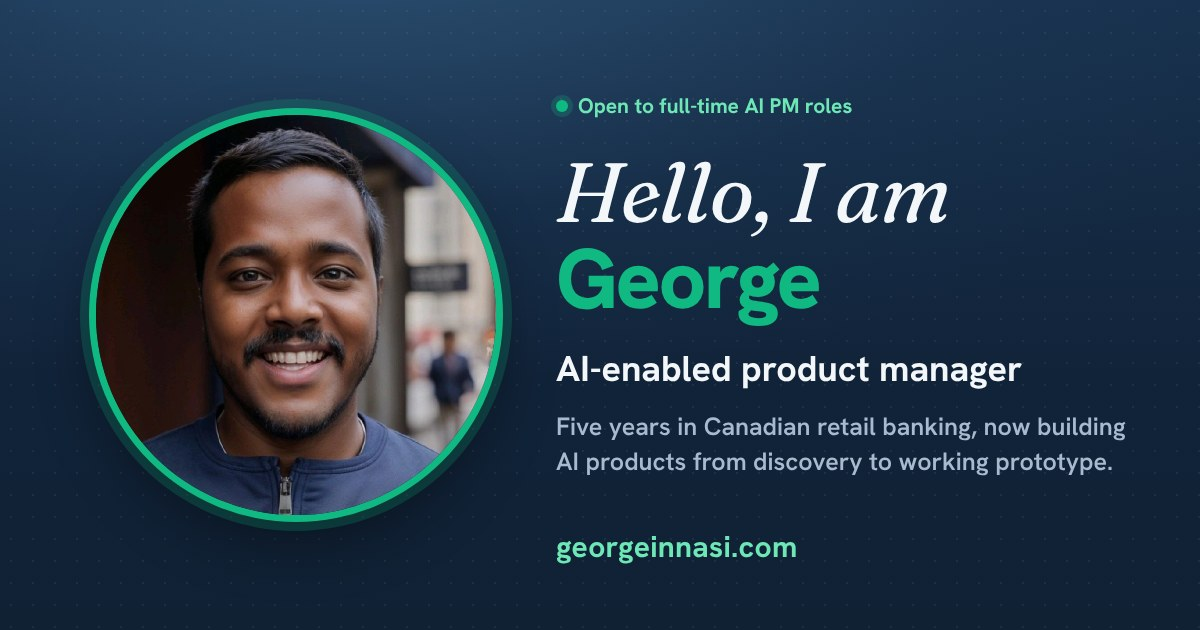
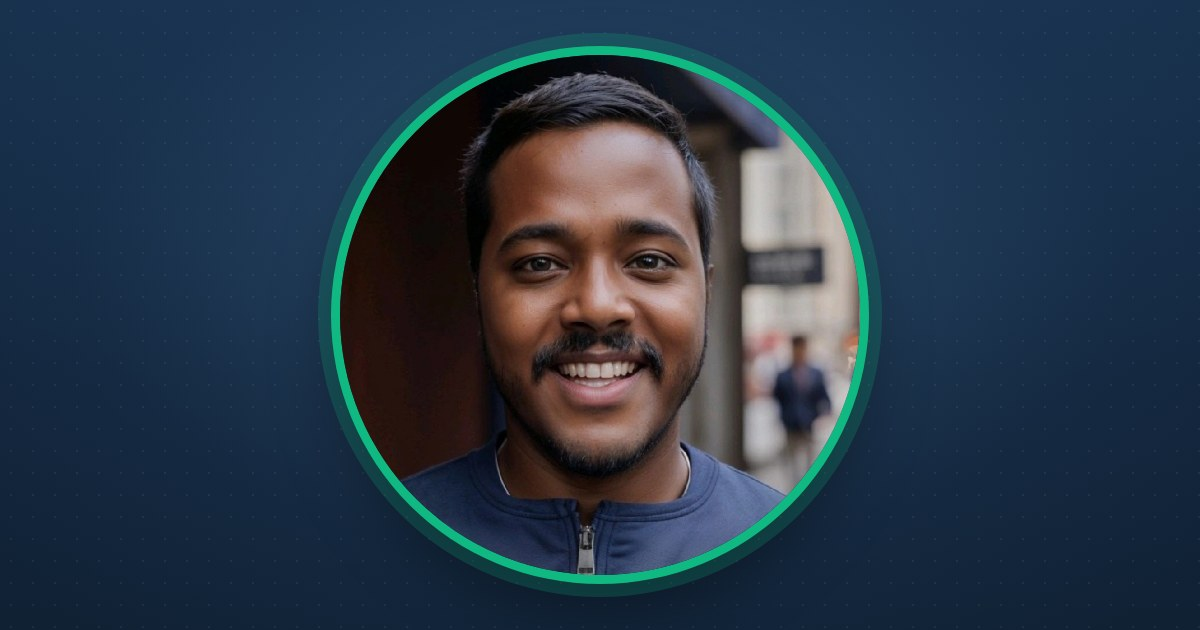
Use photo-only link preview card and shorter preview description
Claude-Session: https://claude.ai/code/session_013DHFwZ5MhUf6FPwx2xuPg3

diff --git a/index.html b/index.html
@@ -9,7 +9,7 @@
 <meta property="og:type" content="website">
 <meta property="og:site_name" content="George Innasi">
 <meta property="og:title" content="George Innasi, AI-enabled product manager">
-<meta property="og:description" content="Portfolio of George Innasi, an AI-enabled product manager. Five years in Canadian retail banking, now building AI products from discovery to working prototype.">
+<meta property="og:description" content="A former personal banker turned product manager, building AI products from discovery to working prototype.">
 <meta property="og:url" content="https://georgeinnasi.com/">
 <meta property="og:image" content="https://georgeinnasi.com/assets/og-image.jpg">
 <meta property="og:image:type" content="image/jpeg">
@@ -18,7 +18,7 @@
 <meta property="og:image:alt" content="George Innasi, AI-enabled product manager, portfolio at georgeinnasi.com">
 <meta name="twitter:card" content="summary_large_image">
 <meta name="twitter:title" content="George Innasi, AI-enabled product manager">
-<meta name="twitter:description" content="Five years in Canadian retail banking, now building AI products from discovery to working prototype.">
+<meta name="twitter:description" content="A former personal banker turned product manager, building AI products from discovery to working prototype.">
 <meta name="twitter:image" content="https://georgeinnasi.com/assets/og-image.jpg">
 <link rel="icon" href="/assets/favicon.svg" type="image/svg+xml">
 <link rel="preconnect" href="https://fonts.googleapis.com">
